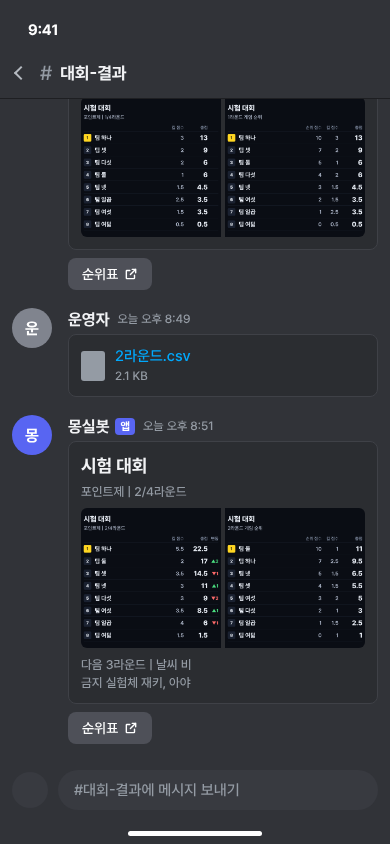
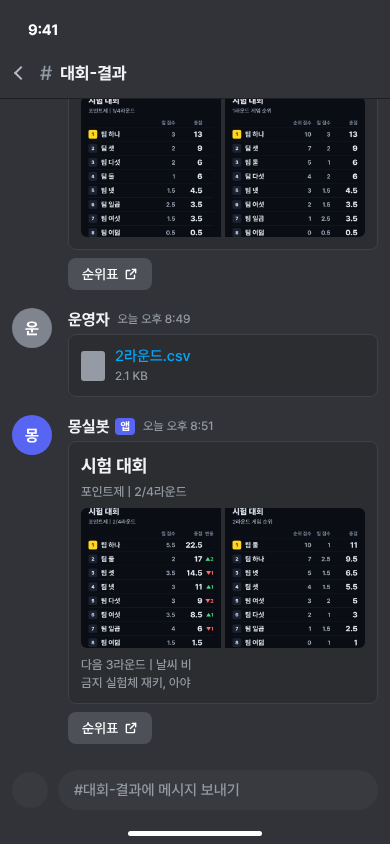
docs: 대회 결과 시안의 A안 제목 줄과 점수 머리글, 휴대폰 글자 크기를 고침
Claude-Session: https://claude.ai/code/session_01HiX2KxY36RkRh54kk1ynaz

diff --git a/mock/result-message/notes.md b/mock/result-message/notes.md
@@ -7,26 +7,28 @@
 - 가짜 대회 "시험 대회", 8팀, 4라운드 포인트제입니다. 라운드마다 운영자가 게임 결과 CSV를 올리고 2분 뒤 봇이 결과를 올린다고 놓았습니다.
 - 데스크톱 캡처는 4라운드가 끝난 상태, 휴대폰 캡처는 2라운드가 끝난 상태입니다. `A-select.png`는 4라운드가 끝난 상태라 select 항목이 5개입니다.
 - 메시지 수는 봇 메시지만 셉니다. 순위 행 수는 화면 안에 행 전체가 보이는 것만 셉니다.
-- 짐작한 크기: 데스크톱 Container 최대 폭 600px, 이미지 1장은 Container 폭에 맞춤. 휴대폰 이미지 폭은 약 290px(`round-og.tsx` 주석의 약 300px와 비슷). MediaGallery에 2장을 넣으면 두 장이 가로로 나란히 놓이고 칸마다 잘려 보인다고 놓았습니다. 실제 디스코드에서 크기가 다를 수 있습니다.
+- 순위 이미지의 기준 폭은 `roundImage`의 720px에서 600px로 줄였고 글자 크기는 그대로 뒀습니다. 560px에서는 A안 이미지의 팀 이름 칸이 174px라 "팀 이름이 긴 팀"(195.8px)이 말줄임돼 600px로 늘렸습니다. 변동 열은 52px에서 48px로 줄였습니다. A, B, C 시안과 F1, F2, F3 이미지에 모두 같은 폭을 씁니다.
+- 짐작한 크기: 데스크톱 Container 최대 폭 600px, 이미지 1장은 Container 폭에 맞춤(566px). 휴대폰 이미지 폭은 284px(`round-og.tsx` 주석의 약 300px와 비슷). MediaGallery에 2장을 넣으면 두 장이 가로로 나란히 놓이고 칸마다 잘려 보인다고 놓았습니다. 실제 디스코드에서 크기가 다를 수 있습니다.
 - 봇 코드(`commands/tournament.py`)는 이 레포에 없어, 아래 함수 변경은 함수 이름만 보고 적은 것입니다.
 
 ## A안, 메시지 하나
 
 - 4라운드가 끝났을 때 남는 봇 메시지: 1개
-- 한 화면: 데스크톱 메시지 1개, 순위 행 8개 / 휴대폰 메시지 1개, 순위 행 8개
+- 한 화면: 데스크톱 메시지 1개, 순위 행 8개(작성자 줄은 화면 위로 밀림) / 휴대폰 메시지 1개, 순위 행 8개
+- 메시지 구성: Container에 누적 순위 이미지와 다음 라운드 줄만 두고, 그 아래 Action Row 두 개에 select와 링크 버튼 "순위표"를 둡니다. 대회 이름과 진행 상황은 이미지 머리글에만 있습니다.
+- 순위 이미지는 F1 표기에서 순위 점수 열을 뺐습니다. 열은 순위, 팀, 킬 점수, 총점, 변동입니다.
 - 바뀌는 함수
-  - `notice_view`: 제목, 누적 순위 이미지, 다음 라운드 줄, select, 링크 버튼을 담는 하나의 view가 됩니다.
+  - `notice_view`: 누적 순위 이미지, 다음 라운드 줄, select, 링크 버튼을 담는 하나의 view가 됩니다.
   - `round_view`: 없앱니다. select로 고른 라운드의 게임 순위 이미지를 ephemeral로 보내는 응답을 새로 만들어야 하고, 라운드 하나의 게임 순위 이미지는 지금 `roundImage`가 그리지 않으니 웹 쪽에 새 이미지 경로가 필요합니다.
   - `post_round`: 이전 메시지를 지우고 새 메시지를 올린 뒤 메시지 ID를 저장합니다.
   - `tick`: 개요 메시지 수정이 없어집니다.
 - 재시작 뒤: select를 `DynamicItem`으로 등록하고 custom_id에 대회 코드와 조를 넣으면 동작합니다. 링크 버튼은 봇과 상관없이 동작합니다.
-- 지시문과 다른 점: 디스코드에서 Action Row 하나에는 select 하나 또는 버튼 최대 5개만 넣을 수 있어, select와 링크 버튼을 Action Row 두 개로 나눴습니다.
-- 제목 Text Display의 대회 이름과 진행 상황이 바로 아래 이미지 머리글과 겹칩니다.
+- 디스코드에서 Action Row 하나에는 select 하나 또는 버튼 최대 5개만 넣을 수 있어, select와 링크 버튼을 Action Row 두 개로 나눴습니다.
 
 ## B안, 지금 구성 정리
 
 - 4라운드가 끝났을 때 남는 봇 메시지: 5개(개요 1, 라운드 4)
-- 한 화면: 데스크톱 메시지 2개(위 메시지는 이미지 아래 끝만 보임), 순위 행 8개 / 휴대폰 메시지 2개, 순위 행 13개(위 메시지 5행 + 아래 메시지 8행)
+- 한 화면: 데스크톱 메시지 1개, 순위 행 8개 / 휴대폰 메시지 2개, 순위 행 10개(위 메시지 2행 + 아래 메시지 8행)
 - 바뀌는 함수
   - `notice_view`: 다음 라운드 줄과 금지 실험체 줄을 뺍니다.
   - `round_view`: 이미지와 다음 라운드 줄, 금지 실험체 줄만 둡니다. 링크 버튼을 뺍니다.
@@ -39,26 +41,37 @@
 ## C안, 라운드 메시지에 두 장
 
 - 4라운드가 끝났을 때 남는 봇 메시지: 4개
-- 한 화면: 데스크톱 메시지 2개, 순위 행 26개(위 메시지 2장의 일부 + 아래 메시지 16행) / 휴대폰 메시지 2개, 순위 행 32개
+- 한 화면: 데스크톱 메시지 2개, 순위 행 22개 / 휴대폰 메시지 2개, 순위 행 28개
 - 바뀌는 함수
   - `notice_view`: 없앱니다.
   - `round_view`: 제목 Text Display와 이미지 2장, 다음 라운드 줄, 링크 버튼을 둡니다.
   - `post_round`: 라운드 하나의 게임 순위 이미지도 같이 올립니다. A안처럼 새 이미지 경로가 필요합니다.
   - `tick`: 개요 메시지 수정이 없어집니다.
 - 재시작 뒤: 링크 버튼만 있어 그대로 동작합니다.
-- 두 장이 나란히 놓여 한 장 폭이 데스크톱 약 280px, 휴대폰 약 140px입니다. 행은 화면 안에 들어오지만 휴대폰에서는 글자가 5px 안팎이라 읽을 수 없습니다. 이미지를 누르면 크게 볼 수 있습니다.
+- 두 장이 나란히 놓여 한 장 폭이 데스크톱 281px, 휴대폰 140px입니다. 칸이 정사각형이라 600px 폭 이미지는 위아래가 잘려 이미지 머리글의 대회 이름이 가려집니다. 휴대폰에서는 글자가 5~7px라 읽을 수 없습니다. 이미지를 누르면 크게 볼 수 있습니다.
 - 개요 메시지가 없어 "이 채널에 올린 게임 결과 CSV는 순위에 반영됩니다." 안내가 빠집니다.
+
+## 휴대폰 글자 크기
+
+390 폭 휴대폰 시안에서 잰 값입니다. 화면 크기 = 이미지 안 글자 크기 × 화면에 표시된 이미지 폭 ÷ 이미지 원본 폭입니다. 이미지 안 글자 크기는 열 머리글 21px, 팀 이름 29px이고, 원본 폭은 기준 폭(720 또는 600)입니다. C안은 정사각형 칸을 채우도록 늘린 폭을 표시된 폭으로 썼습니다.
+
+| 안 | 표시된 이미지 폭 | 열 머리글 720 → 600 | 팀 이름 720 → 600 |
+| --- | --- | --- | --- |
+| A | 284px | 8.3px → 9.9px | 11.4px → 13.7px |
+| B | 284px | 8.3px → 9.9px | 11.4px → 13.7px |
+| C | 720 기준 148px, 600 기준 140px | 4.3px → 4.9px | 6.0px → 6.8px |
 
 ## 점수 표기
 
-2라운드 누적 순위입니다. 표의 숫자는 720 폭 기준으로 잰 정수 자리 오른쪽 끝의 위치입니다.
+2라운드 누적 순위입니다. 표의 숫자는 600 폭 기준으로 잰 정수 자리 오른쪽 끝의 위치입니다.
 
 | 안 | 킬 점수 열 | 총점 열 | 정수 자리 |
 | --- | --- | --- | --- |
-| F1 | 495 | 604 | 열마다 한 위치. 순위 점수 열도 416 한 위치 |
-| F2 | 496.3, 496.5 | 604.9, 605.4 | 0.5px 안에서 맞음 |
-| F3 | 496.5, 520 | 605.4, 636 | 정수 값만 23~31px 오른쪽으로 밀림 |
+| F1 | 379 | 488 | 열마다 한 위치. 순위 점수 열도 300 한 위치 |
+| F2 | 380.3, 380.5 | 488.9, 489.4 | 0.5px 안에서 맞음 |
+| F3 | 380.5, 404 | 489.4, 520 | 정수 값만 23~31px 오른쪽으로 밀림 |
 
-- F1은 열이 하나 늘고 킬 점수 열도 머리글이 정수 자리 위에 오도록 넓혀, 팀 이름 칸이 720 기준 352px에서 240px로 줄어듭니다. 긴 팀 이름은 더 일찍 말줄임됩니다.
+- F1은 정수 오른쪽에 ".5"가 들어갈 고정 폭 칸을 두고, 열 머리글은 그 칸의 오른쪽 끝에 맞춥니다. 머리글 오른쪽 끝과 숫자 열 오른쪽 끝은 킬 점수 404, 총점 520으로 같습니다. A안 이미지도 같은 규칙입니다.
+- F1은 순위 점수 열이 늘어 팀 이름 칸이 600 기준 124px입니다. "팀 이름이 긴 팀"(195.8px)은 말줄임되고, 기준 폭을 600으로 늘려도 담지 못합니다. 순위 점수 열을 뺀 A안 이미지는 214px, F2와 F3은 236px로 말줄임 없이 들어갑니다. C안의 게임 순위 이미지도 순위 점수 열이 있어 194px로 2px 모자랍니다.
 - F1은 Pretendard의 tabular-nums를 씁니다. 같은 크기에서 "1111"과 "0000"의 폭이 같은 것을 확인했습니다.
-- 300px 사본에서 글자 크기는 팀 이름 약 12px, 킬 점수 약 11px입니다.
+- 300px 사본에서 글자 크기는 팀 이름 14.5px, 킬 점수 13px입니다.
